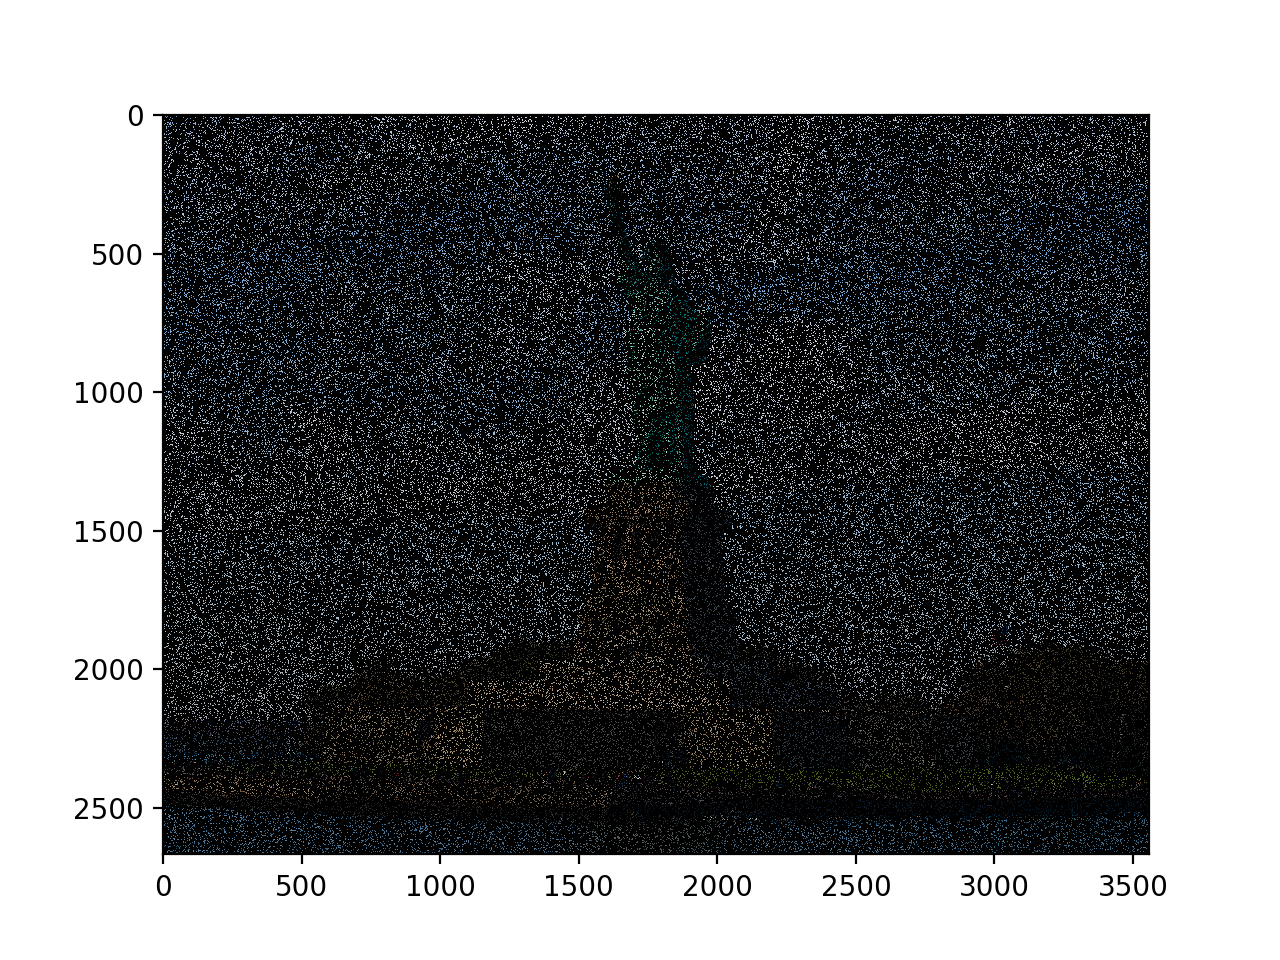
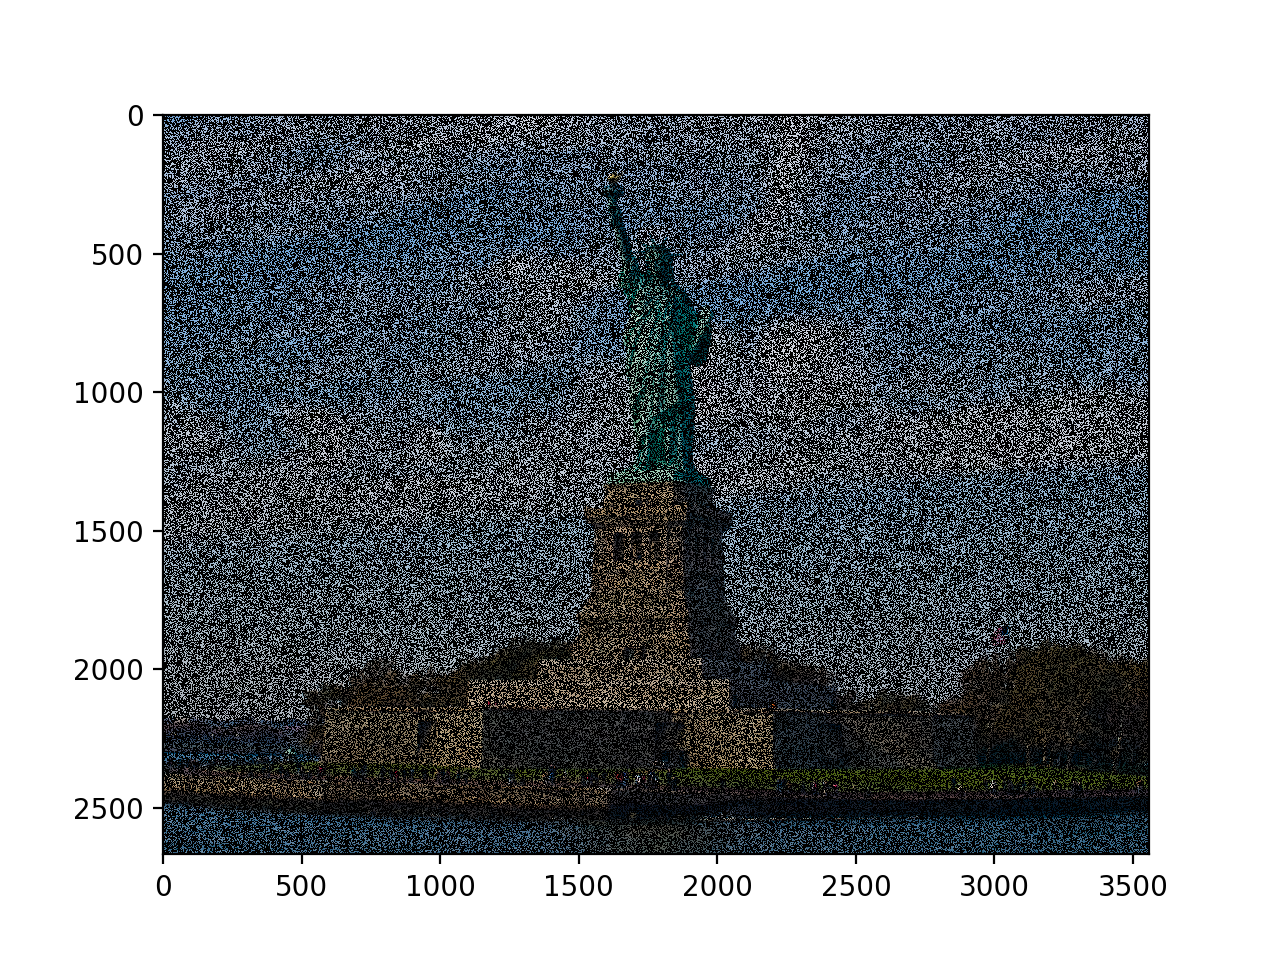
implementing extrapolation

Changed region(s): [[0.125, 0.125, 0.9062, 0.9062]]

diff --git a/main.py b/main.py
@@ -4,13 +4,14 @@ import image
 import random
 
 def run():
-    image = img.imread('./samples/people.jpg')
-    # image = img.imread('./samples/landmark.jpg')
+    # image = img.imread('./samples/people.jpg')
+    # image = img.imread('./samples/me.jpg')
+    image = img.imread('./samples/landmark.jpg')
 
     print('copying image...')
     image = image.copy()
 
-    dirty_percent = 30
+    dirty_percent = 50
     pixels = image.shape[0] * image.shape[1]
     dirty = round(pixels * (dirty_percent * 2 / 100))
     print('dirtying image ({}% - total pixels: {} - pixels to dirty: {})...'.format(dirty_percent, pixels, dirty))
@@ -29,48 +30,132 @@ def run():
 
     print('horizontal interpolating...')
     for bp in bad_points_h:
+        if bp[3] != '':
+            continue
+
         qty = bp[2]
         y = bp[0]
         x_1 = bp[1] - 1
         x_2 = bp[1] + qty
+
         y_1 = image[y][x_1]
         y_2 = image[y][x_2]
-        interpolation = inter(x_1, y_1, x_2, y_2)
+        interpolation = inter(x_1, y_1, x_2, y_2, qty)
         for i in range(len(interpolation)):
             image[y][x_1 + 1 + i] = interpolation[i]
 
+    for bp in bad_points_h:
+        type_oper = bp[3]
+        if type_oper == '':
+            continue
+
+        qty = bp[2]
+        y = bp[0]
+        x_1 = bp[1] - 1
+        x_2 = bp[1] + qty
+
+        if type_oper == 'extra_neg':
+            x_2 += 1
+            x_1 = x_2 - 1
+        elif type_oper == 'extra_pos':
+            x_1 -= 1
+            x_2 = x_1 + 1
+
+        y_1 = image[y][x_1]
+        y_2 = image[y][x_2]
+        interpolation = inter(x_1, y_1, x_2, y_2, qty, type_oper)
+        for i in range(len(interpolation)):
+            if type_oper == 'extra_neg':
+                image[y][x_1 - 1 - i] = interpolation[i]
+            elif type_oper == 'extra_pos':
+                image[y][x_2 + 1 + i] = interpolation[i]
+
     print('vertical interpolating...')
     for bp in bad_points_v:
+        if bp[3] != '':
+            continue
+
         qty = bp[2]
         y = bp[1]
         x_1 = bp[0] - 1
         x_2 = bp[0] + qty
         y_1 = image[x_1][y]
         y_2 = image[x_2][y]
-        interpolation = inter(x_1, y_1, x_2, y_2)
+        interpolation = inter(x_1, y_1, x_2, y_2, qty)
         for i in range(len(interpolation)):
             rgb_h = image[x_1 + 1 + i][y]
             rgb_v = interpolation[i]
             image[x_1 + 1 + i][y] = [(rgb_h[0] + rgb_v[0])/2,(rgb_h[1] + rgb_v[1])/2,(rgb_h[2] + rgb_v[2])/2]
+
+    for bp in bad_points_v:
+        type_oper = bp[3]
+        if type_oper == '':
+            continue
+
+        qty = bp[2]
+        y = bp[1]
+        x_1 = bp[0] - 1
+        x_2 = bp[0] + qty
+
+        if type_oper == 'extra_neg':
+            x_2 += 1
+            x_1 = x_2 - 1
+        elif type_oper == 'extra_pos':
+            x_1 -= 1
+            x_2 = x_1 + 1
+
+        y_1 = image[x_1][y]
+        y_2 = image[x_2][y]
+        interpolation = inter(x_1, y_1, x_2, y_2, qty, type_oper)
+        for i in range(len(interpolation)):
+            if type_oper == 'extra_neg':
+                rgb_h = image[x_1 - 1 - i][y]
+                rgb_v = interpolation[i]
+                image[x_1 - 1 - i][y] = [(rgb_h[0] + rgb_v[0])/2,(rgb_h[1] + rgb_v[1])/2,(rgb_h[2] + rgb_v[2])/2]                
+            elif type_oper == 'extra_pos':
+                rgb_h = image[x_2 + 1 + i][y]
+                rgb_v = interpolation[i]
+                image[x_2 + 1 + i][y] = [(rgb_h[0] + rgb_v[0])/2,(rgb_h[1] + rgb_v[1])/2,(rgb_h[2] + rgb_v[2])/2]                
 
     print('plotting vertical + horizontal interpolated image...')
     fig = plt.figure(3)
     plt.imshow(image)
     plt.show()
 
-def inter(start_point, start_value, end_point, end_value):
-    qty = end_point - start_point - 1
+
+def inter(x_1, y_1, x_2, y_2, qty, type_oper='interp'):
+    factor = [0]*3
+    factor[0] = int(round((int(y_2[0])-int(y_1[0])) / (x_2 - x_1)))
+    factor[1] = int(round((int(y_2[1])-int(y_1[1])) / (x_2 - x_1)))
+    factor[2] = int(round((int(y_2[2])-int(y_1[2])) / (x_2 - x_1)))
     arr = [None]*qty
     for i in range(qty):
-        x = i + start_point + 1
+        x = i + x_1 + 1
+        if type_oper == 'extra_pos':
+            x = i + x_2 + 1
+        if type_oper == 'extra_neg': 
+            x = x_1 - 1 - i
+
         rgb_h = [0] * 3
-        rgb_h[0] = int(round(int(start_value[0]) + (int(end_value[0])-int(start_value[0])) / (end_point - start_point) * (x - start_point)))
-        rgb_h[1] = int(round(int(start_value[1]) + (int(end_value[1])-int(start_value[1])) / (end_point - start_point) * (x - start_point)))
-        rgb_h[2] = int(round(int(start_value[2]) + (int(end_value[2])-int(start_value[2])) / (end_point - start_point) * (x - start_point)))
-        arr[i] = rgb_h
+        rgb_h[0] = int(y_1[0]) + factor[0] * (x - x_1)
+        rgb_h[1] = int(y_1[1]) + factor[1] * (x - x_1)
+        rgb_h[2] = int(y_1[2]) + factor[2] * (x - x_1)
+        arr[i] = fix_rgb(rgb_h)
     return arr
-    
-    
+
+def fix_rgb(rgb):
+    rgb[0] = fix_rgb_color(rgb[0])
+    rgb[1] = fix_rgb_color(rgb[1])
+    rgb[2] = fix_rgb_color(rgb[2])
+    return rgb
+
+def fix_rgb_color(color):
+    if color > 255:
+        color = 255
+    if color < 0:
+        color = 0
+    return color
+
 def dirty_image(img):
     """dirty image"""
     x,y = random.randint(0,img.shape[0]-1), random.randint(0,img.shape[1]-1)
@@ -79,33 +164,55 @@ def dirty_image(img):
 def get_points(img, rgb, direction):
     points = []
     point = None
-    width = img.shape[0]
-    height = img.shape[1]
+    width = img.shape[1]
+    height = img.shape[0]
 
+    qty = 0
     if direction == 'h':
-        for y in range(width):
-            for x in range(height):
+        for y in range(height):
+            for x in range(width):
                 if (img[y][x] == rgb).all():
+                    qty += 1
                     if point is None:
                         point = [y,x]
+                    if x == width - 1:
+                        point.append(qty)
+                        point.append('extra_pos')
+                        points.append(point)
+                        point = None 
+                        qty = 0 
                 elif point is not None:
-                    qty = x - point[1]
                     point.append(qty)
+                    if point[0] == 0:
+                        point.append('extra_neg')
+                    else:
+                        point.append('')
                     points.append(point)
                     point = None
-                ##if x == height TODO
+                    qty = 0
     else:
-        for x in range(height):
-            for y in range(width):
+        for x in range(width):
+            for y in range(height):
+
                 if (img[y][x] == rgb).all():
+                    qty += 1
                     if point is None:
                         point = [y,x]
+                    if y == height - 1:
+                        point.append(qty)
+                        point.append('extra_pos')
+                        points.append(point)
+                        point = None 
+                        qty = 0 
                 elif point is not None:
-                    qty = y - point[0]
                     point.append(qty)
+                    if point[0] == 0:
+                        point.append('extra_neg')
+                    else:
+                        point.append('')
                     points.append(point)
                     point = None
-                ##if x == height TODO            
+                    qty = 0
 
     return points
 
